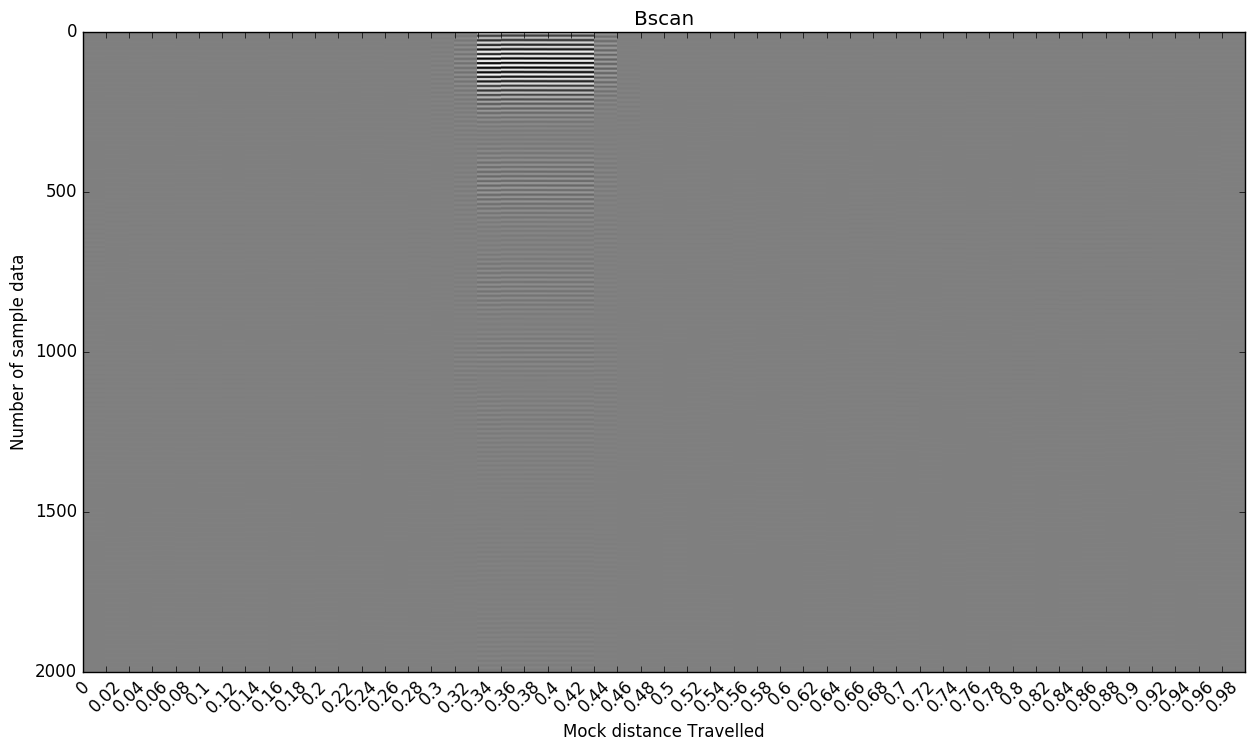
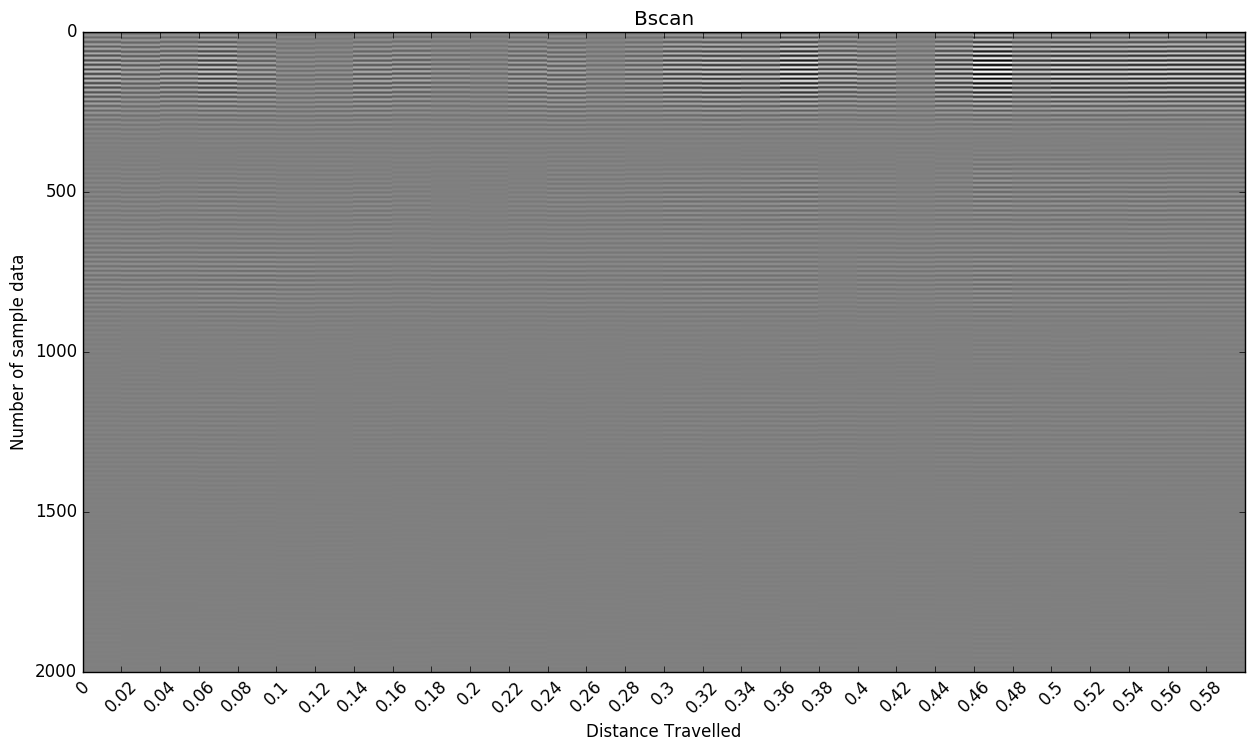
Final Update

diff --git a/scripts/processBscan.py b/scripts/processBscan.py
@@ -3,63 +3,72 @@ import rospy
 from walabot.msg import signal
 import numpy as np
 import matplotlib.pyplot as plt
-from nav_msgs.msg import Odometry
-from std_msgs.msg import String
+from walabot.msg import distanceTravelled
 import message_filters
-import math
+import xlwt
+from xlwt import Workbook
 
-# y = []
-# z = []
-# dist = []
-# i = 0
-
-# def callback(rawSignaldata, distanceTravelleddata):
-def callback(chatter,yo):
-    # global y,z,dist,i
+y = []
+z = []
+dist = []
+i = 0 # Counter for mock distance value
+j=0
+def callback(data):
+    global y,z,dist,i,j
     # convert amplitude value into array for computing
-    # raw = rawSignaldata.amplitude
-    raw = chatter.data
-    distraw = yo.data
-    # raw = raw[0:2000]
+    raw = data.amplitude
+    rawAmp = raw[0:2000]
     # updating list for plotting
-    # z.append(rawAmp)
-    # dist = list(distraw)
-    rospy.loginfo(raw)
-    rospy.loginfo(distraw)
-    # print(type(distraw))
-    # inverting amplitude value to get a vertical plot
-    # z = zip(*z)
-    # y_min, y_max = np.asarray(z).min(), np.asarray(z).max()
-    # # Plotting raw signal
-    # if i==0:
-    #     plt.figure(figsize=(15,8))
-    #     i = i + 1
-    # plt.clf()
-    # plt.ylim(2000,0)
-    # plt.xlim(0,50)
-    # plt.pcolormesh(z,cmap = 'gist_gray',vmin=y_min, vmax=y_max)
-    # plt.title('Bscan')
-    # plt.ylabel('Number of sample data')
-    # plt.xlabel('Mock distance Travelled')
-    # plt.xticks(np.arange(len(dist)),dist,rotation = 45)
-    # plt.draw()
-    # plt.pause(0.0000001)
-    # plt.show()
-    # z = zip(*z)
-    # print (len(z))
-    # if len(z)==50:
-    #     shutcommand = "shutdown"
-    #     plt.savefig('WalabotBscan.pdf',bbox_inches='tight')
-    #     rospy.signal_shutdown(shutcommand)
-    # # clear for new list
-    # dist = []
-        
+    z.append(rawAmp)
+    dist.append(i)
+    # print(dist)
+    # inverting amplitude value to get a vertical B-scan plot
+    z = zip(*z)
+    y_min, y_max = np.asarray(z).min(), np.asarray(z).max()
+    # Plotting raw signal
+    if i==0:
+        # Setting the figure onnce
+        plt.figure(figsize=(15,8))
+
+        # For experiment 2 #
+        # wb = Workbook()
+        # sheet1 = wb.add_sheet('Sheet 1')
+        # sheet1.write(0,0, 'Timestamp')
+        # sheet1.write(0,1, 'Distance')
+    plt.clf()
+    # Graph size is already made to suit the total distance travelled. If changed, edit here too.
+    plt.ylim(2000,0)
+    plt.xlim(0,30)
+    plt.pcolormesh(z,cmap = 'gist_gray',vmin=y_min, vmax=y_max)
+    plt.title('Bscan')
+    plt.ylabel('Number of sample data')
+    plt.xlabel('Distance Travelled')
+    plt.xticks(np.arange(len(dist)),dist,rotation = 45)
+    plt.draw() 
+    plt.pause(0.0000001)
+    plt.show()
+    z = zip(*z)
+    print (len(z))
+    # Getting current time stamp
+    tc = rospy.Time.now().to_sec()
+    print tc
+
+    # For experiment 2 #
+    # sheet1.write(j,0,tc)
+    # sheet1.write(j,1,i)
+    # j = j +1
+
+    # Mock distance value. Target distance = 0.6, hence 0.02 increments until it reaches 30 (0.02*30=0.6). 
+    i = i + 0.02
+    if len(z)==30:
+        i = "shutdown"
+        # Saving the graph image
+        plt.savefig('src/walabot/data/dataBscan/WalabotBscan.png',bbox_inches='tight')
+        rospy.signal_shutdown(i)
 if __name__ == '__main__':
     rospy.init_node('processBscan', anonymous=True)
-    # plt.ion()
-    rawSignaldata = message_filters.Subscriber('chatter', String)
-    distanceTurtleTravdata = message_filters.Subscriber('yo',String)
-    ts = message_filters.ApproximateTimeSynchronizer([rawSignaldata, distanceTurtleTravdata],10,0.1,allow_headerless = True)
-    ts.registerCallback(callback)
-    # distanceTurtleTravdata = rospy.Subscriber('odom',Odometry,callback)
+    plt.ion()
+    # Delay to match with robot movement node
+    rospy.sleep(1)
+    rospy.Subscriber("rawSignal",signal,callback)
     rospy.spin()

diff --git a/scripts/walabotRawSignal.py b/scripts/walabotRawSignal.py
@@ -20,14 +20,15 @@ wlbt.Init()
 
 def DataCollect():
     global i,depth,j
-    #antenna pair
+    # Antenna pair. Refer the walabot datasheet
     pair1 = 2   # 1 -> 4
     pair2 = 34  # 5 -> 8
     pair3 = 66  # 12 -> 9
     pair4 = 101 # 13 -> 16
     pair5 = 135 # 18 -> 17
 
-    ########## Depth Estimation Value ##############
+    ########## Experiment 3: Depth Estimation Value ##############
+    # This does not work. Require manual calibration each time.
     # Uncomment only when running depth
     depth1 = 0.0256278951      #Depth 0cm which is 2.5cm from Walabot that is separated by a medium
     depth2  = 0.0083904274    #Depth 2cm
@@ -45,7 +46,7 @@ def DataCollect():
     # wlbt.SetArenaY - 34nput parameters
     yArenaMin, yArenaMax, yArenaRes = -10, 10, 0.5
     # wlbt.SetArenaZ - 34nput parameters
-    zArenaMin, zArenaMax, zArenaRes = 2.5, 14, 0.5
+    zArenaMin, zArenaMax, zArenaRes = 4, 14, 0.5
 
     # Initializes walab34t lib
     wlbt.SetSettingsFolder()
@@ -270,7 +271,7 @@ def DataCollect():
         tempNewAmplitude = (tempNewAmplitude1 + tempNewAmplitude2+tempNewAmplitude3+tempNewAmplitude4+tempNewAmplitude5)/5
         newAmplitude = tempNewAmplitude.tolist()
 
-        #######Experiment 1: Depth Calculation###########
+        #######Experiment 3: Depth Calculation###########
         valAmp = max(tempNewAmplitude)
         indexx = newAmplitude.index(valAmp)
         t = np.asarray(targets[1])
@@ -283,7 +284,7 @@ def DataCollect():
         print("Time")
         print (t)
 
-        ################ Write data of max amplitude for each scan for depth calibration #################
+        ################ Experiment 3: Write data of max amplitude for each scan for depth calibration #################
         # if i == 0:
         #     wb = Workbook()
         #     sheet1 = wb.add_sheet('Sheet 1')
@@ -300,7 +301,7 @@ def DataCollect():
         
         #############################################################################################################
 
-        ################# Depth estimation ##################################
+        ################## Experiment 3 Depth estimation ##################################
         if valAmp <= depth1 and valAmp > depth2:
             depth = ((valAmp - depth1)*d2 + (valAmp-depth2)*d1)/(depth2 - depth1)
         elif valAmp <= depth2 and valAmp > depth3:
@@ -333,6 +334,7 @@ def DataCollect():
         targets = []
         newAmplitude = []
         i = i + 1
+        # Experiment 3 #
         # j = j + 1
         # if j==50:
         #     ishut = "shutdown"

diff --git a/scripts/processBscanfail.py b/scripts/processBscanfail.py
@@ -1,0 +1,65 @@
+#!/usr/bin/env python
+import rospy
+from walabot.msg import signal
+import numpy as np
+import matplotlib.pyplot as plt
+from nav_msgs.msg import Odometry
+from std_msgs.msg import String
+import message_filters
+import math
+
+# y = []
+# z = []
+# dist = []
+# i = 0
+
+# def callback(rawSignaldata, distanceTravelleddata):
+def callback(chatter,yo):
+    # global y,z,dist,i
+    # convert amplitude value into array for computing
+    # raw = rawSignaldata.amplitude
+    raw = chatter.data
+    distraw = yo.data
+    # raw = raw[0:2000]
+    # updating list for plotting
+    # z.append(rawAmp)
+    # dist = list(distraw)
+    rospy.loginfo(raw)
+    rospy.loginfo(distraw)
+    # print(type(distraw))
+    # inverting amplitude value to get a vertical plot
+    # z = zip(*z)
+    # y_min, y_max = np.asarray(z).min(), np.asarray(z).max()
+    # # Plotting raw signal
+    # if i==0:
+    #     plt.figure(figsize=(15,8))
+    #     i = i + 1
+    # plt.clf()
+    # plt.ylim(2000,0)
+    # plt.xlim(0,50)
+    # plt.pcolormesh(z,cmap = 'gist_gray',vmin=y_min, vmax=y_max)
+    # plt.title('Bscan')
+    # plt.ylabel('Number of sample data')
+    # plt.xlabel('Mock distance Travelled')
+    # plt.xticks(np.arange(len(dist)),dist,rotation = 45)
+    # plt.draw()
+    # plt.pause(0.0000001)
+    # plt.show()
+    # z = zip(*z)
+    # print (len(z))
+    # if len(z)==50:
+    #     shutcommand = "shutdown"
+    #     plt.savefig('WalabotBscan.pdf',bbox_inches='tight')
+    #     rospy.signal_shutdown(shutcommand)
+    # # clear for new list
+    # dist = []
+        
+if __name__ == '__main__':
+    rospy.init_node('processBscan', anonymous=True)
+    # plt.ion()
+    rawSignaldata = message_filters.Subscriber('chatter', String)
+    distanceTurtleTravdata = message_filters.Subscriber('yo',String)
+    ts = message_filters.ApproximateTimeSynchronizer([rawSignaldata, distanceTurtleTravdata],10,0.1,allow_headerless = True)
+    ts.registerCallback(callback)
+    # distanceTurtleTravdata = rospy.Subscriber('odom',Odometry,callback)
+    rospy.spin()

diff --git a/scripts/processAscan.py b/scripts/processAscan.py
@@ -23,23 +23,26 @@ def callback(data):
     plt.title('Ascan Graph')
     plt.xlabel('Time Axis')
     plt.ylabel('Amplitude')
-    # plt.ylim([-0.06,0.06])
-    # Plotting absolute Ascan
+    plt.ylim([-0.06,0.06])
+    # Plotting absolute Ascan (without noise)
     plt.subplot(2,1,2)
     plt.plot()
     plt.plot(timeAxis, absSignal)
     plt.title('Absolute Ascan Graph')
     plt.xlabel('Time Axis')
     plt.ylabel('Absolute Amplitude')
-    # plt.ylim([0,0.06])
+    plt.ylim([0,0.06])
     plt.subplots_adjust(hspace=0.5)
     plt.draw()
     plt.pause(0.01)
-    j = j + 1
-#     if j==100:
+    j = j + 0.02
+
+    # Experiment 1#
+#     if j==40:
 #         ishut = "shutdown"
-#         # plt.savefig('src/walabot/data/depthcalibration/fiveAnt/BC5PairObject.png',bbpx_inches='tight')
+#         plt.savefig('src/walabot/data/depthcalibration/fiveAnt/BC5PairObject.png',bbpx_inches='tight')
 #         rospy.signal_shutdown(ishut)
+
 def processAscan():
     rospy.init_node('processAscan', anonymous=True)
     rospy.Subscriber("rawSignal", signal, callback)

diff --git a/scripts/pub2.py b/scripts/pub2.py
@@ -1,5 +1,5 @@
 #!/usr/bin/env python
-
+# testing Approximate time synchronizer
 import rospy
 from std_msgs.msg import String
 def talker():
@@ -7,7 +7,7 @@ def talker():
     rospy.init_node('hey', anonymous=True)
     rate = rospy.Rate(1) # 1hz
     while not rospy.is_shutdown():
-        hello_str = "%s" % rospy.get_time()
+        hello_str = "everyone!"
         rospy.loginfo(hello_str)
         pub.publish(hello_str)
         rate.sleep()

diff --git a/scripts/pub1.py b/scripts/pub1.py
@@ -1,5 +1,5 @@
 #!/usr/bin/env python
-
+# testing Approximate time synchronizer
 import rospy
 from std_msgs.msg import String
 def talker():
@@ -7,7 +7,7 @@ def talker():
     rospy.init_node('talker', anonymous=True)
     rate = rospy.Rate(1) # 1hz
     while not rospy.is_shutdown():
-        hello_str = "%s" % rospy.get_time()
+        hello_str = "Hi"
         rospy.loginfo(hello_str)
         pub.publish(hello_str)
         rate.sleep()

diff --git a/scripts/distanceTurtlebotTravelled.py b/scripts/distanceTurtlebotTravelled.py
@@ -65,6 +65,6 @@ if __name__ == '__main__':
     try:
         rospy.init_node('turtle_motion',anonymous=True)
         rospy.sleep(5)
-        move(0.1,0.8,True)
+        move(0.1,0.58,True)
     except rospy.ROSInterruptException or KeyboardInterrupt:
         pass
